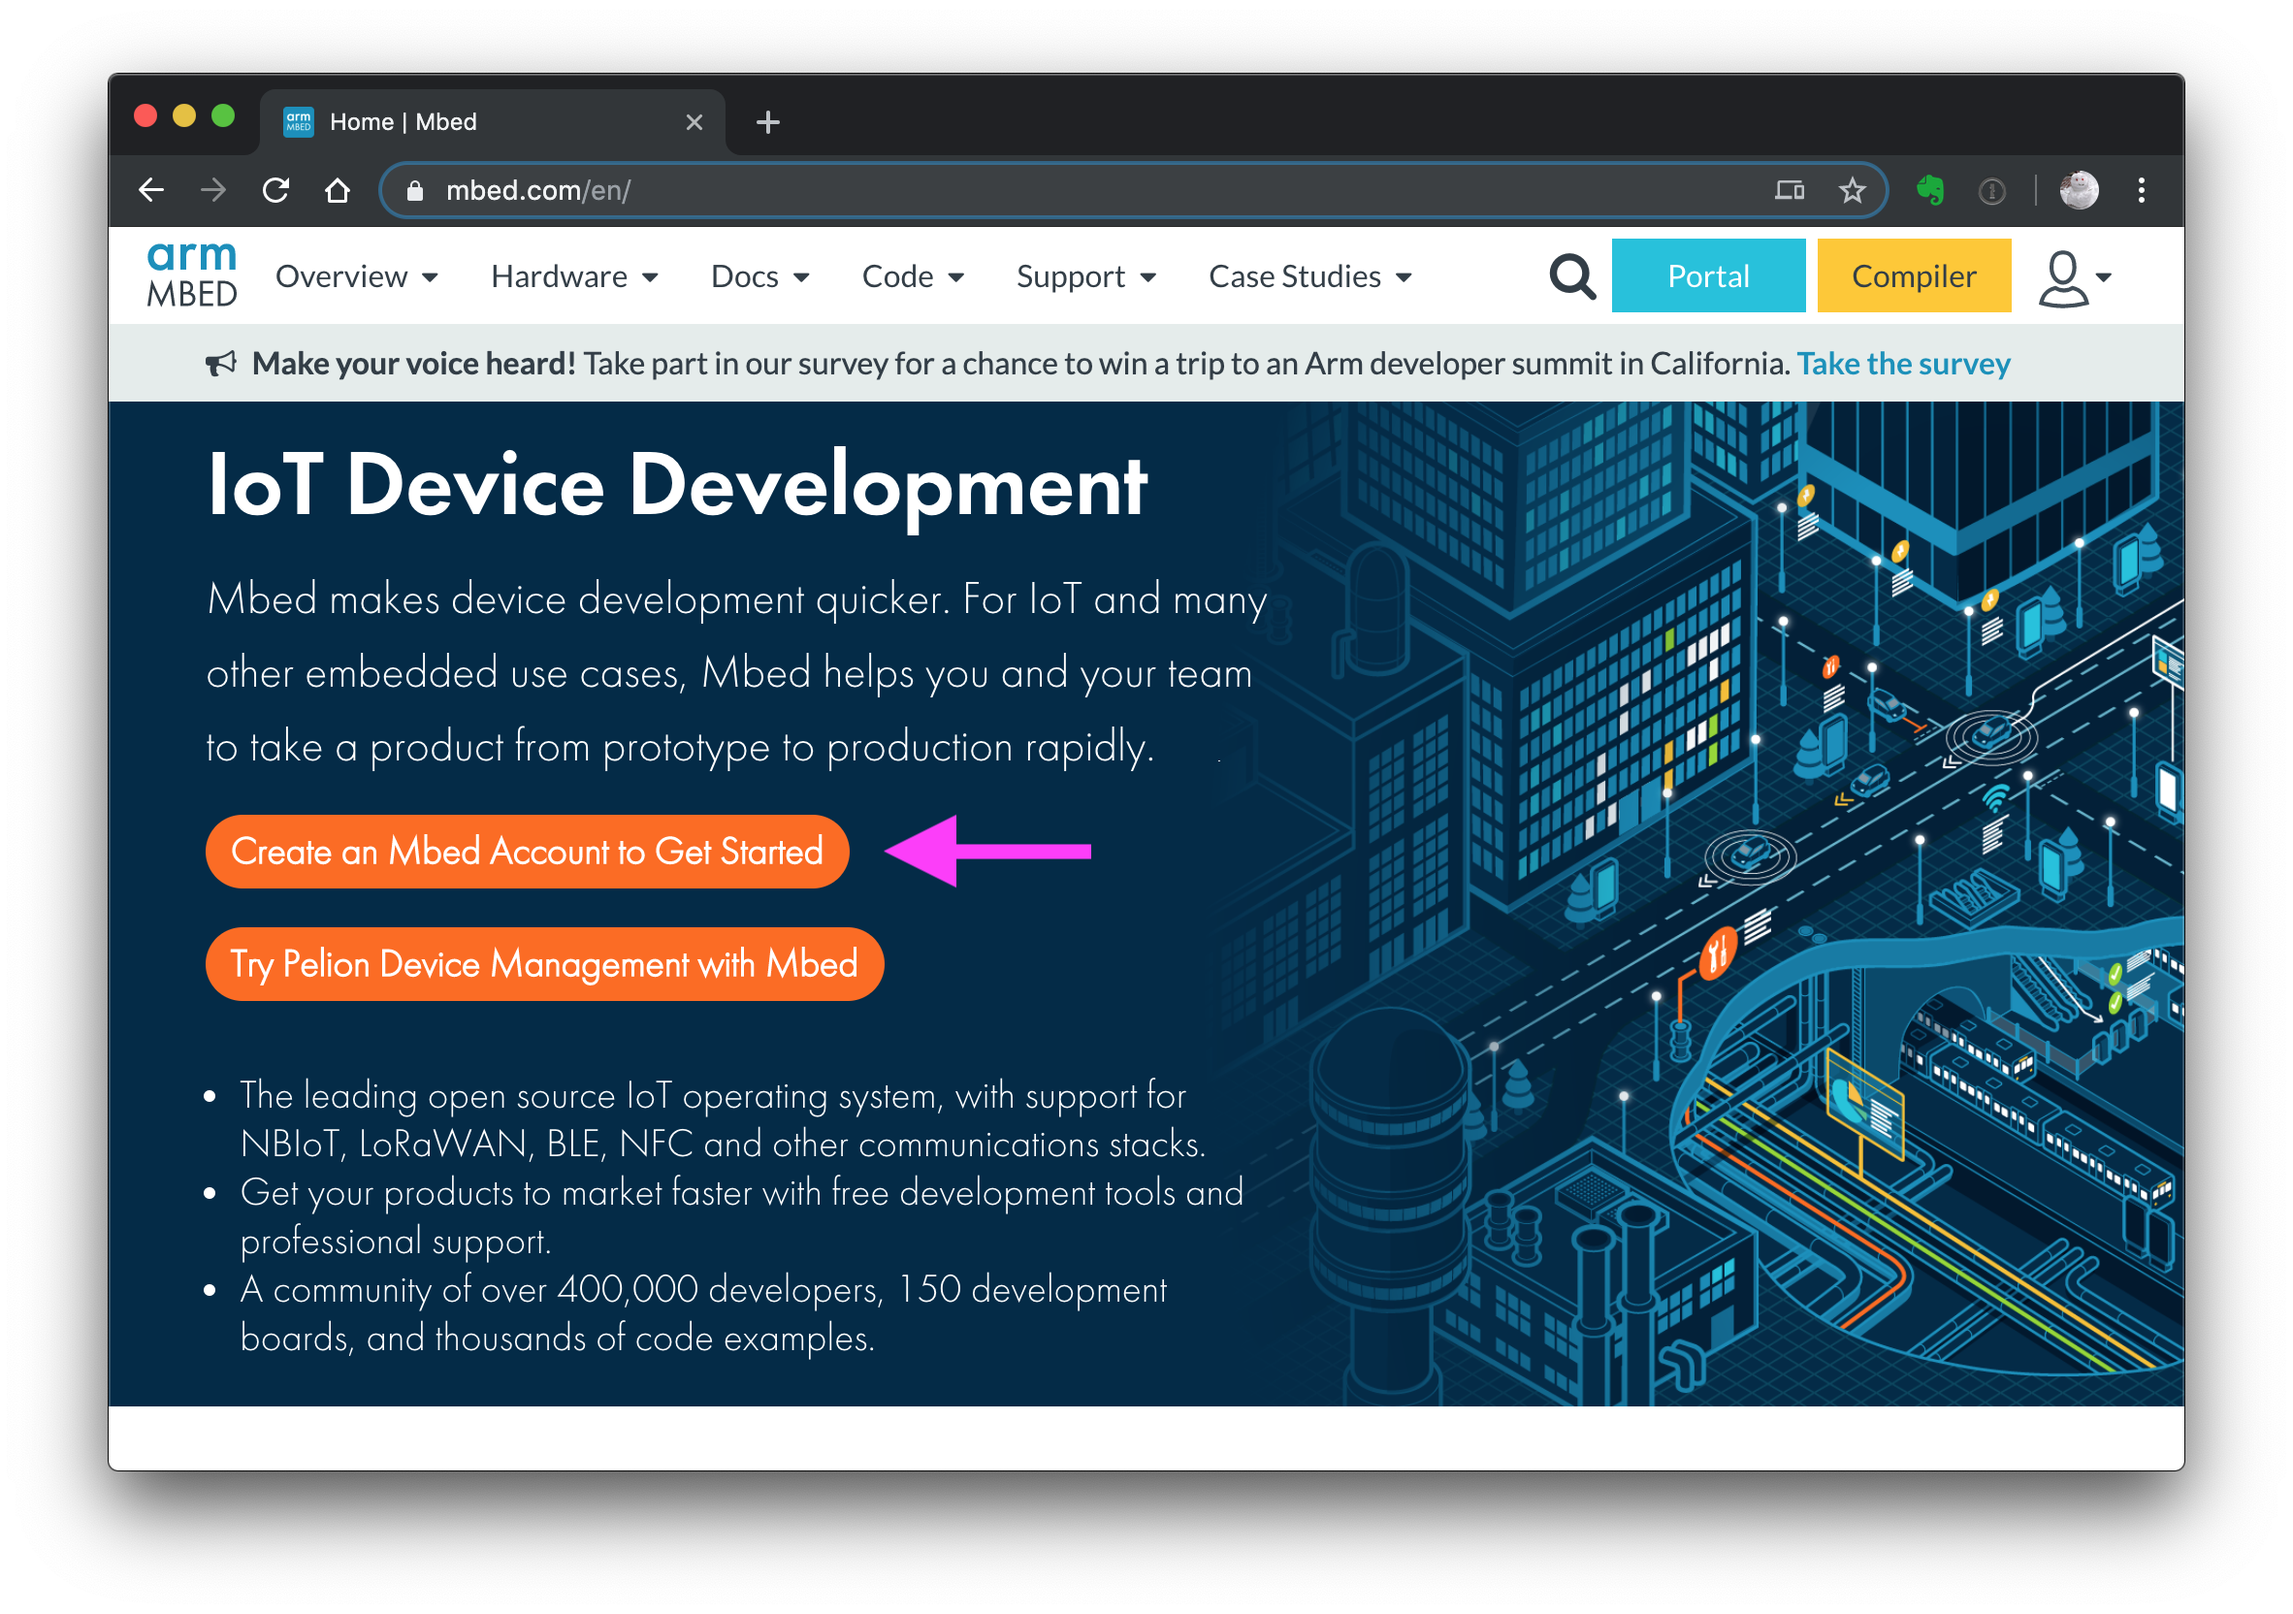
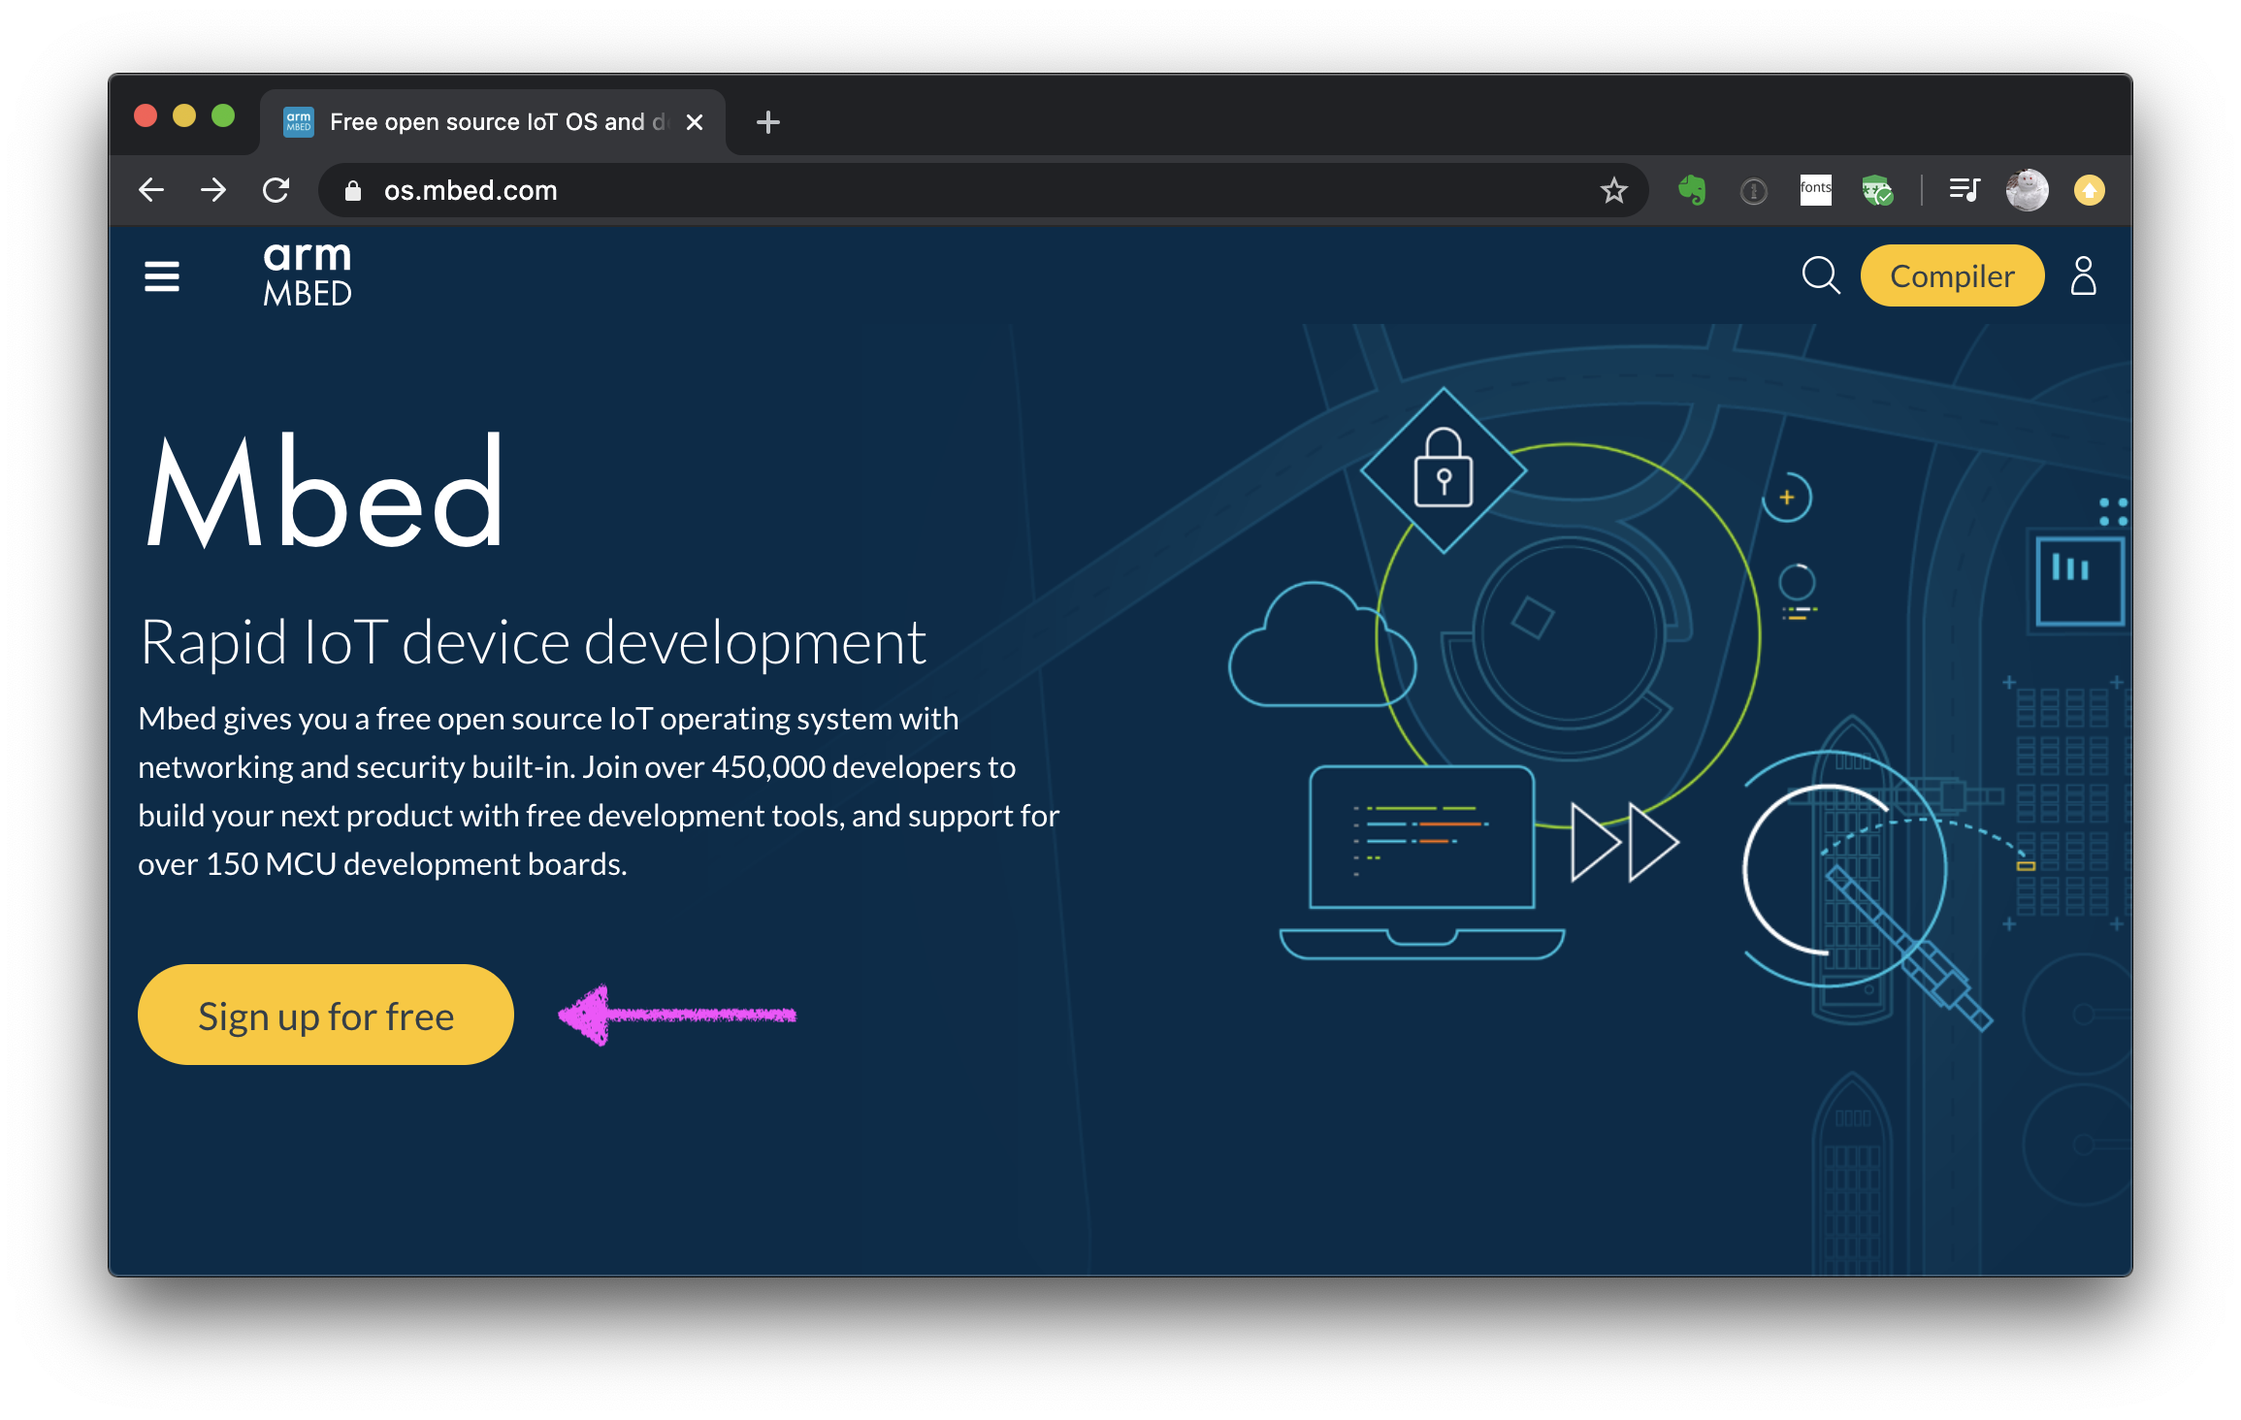
Update screenshot

diff --git a/README.md b/README.md
@@ -5,7 +5,7 @@
 ## 登録ページを開く
 
 https://www.mbed.com/en/ ページにアクセスします。  
-以下の`Create an Mbed Account to Get Started`をクリックします。
+以下の`Sign up for free`ボタンをクリックします。
 
 ![](./pict/mbed_com.png)
 
